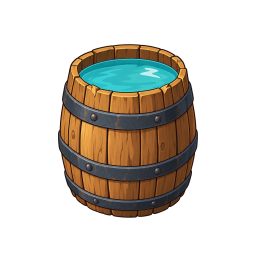
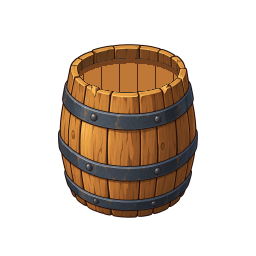
Close the water barrel with a wooden lid
The barrel's open top was bright cyan water that read as a water hazard on the quarry's pale ground. scripts/art/barrel-lid.ts recolours the water to the barrel's own stave tones with plank seams, and its test holds the shipped art free of water and idempotent under the tool.

Changed region(s): [[0.3125, 0.2188, 0.7188, 0.375]]

diff --git a/scripts/art/barrel-lid.ts b/scripts/art/barrel-lid.ts
@@ -1,0 +1,96 @@
+/**
+ * Close the water barrel's top with a wooden lid.
+ *
+ *   node --import tsx scripts/art/barrel-lid.ts
+ *
+ * `barrel.png` came out of generation as an open barrel brim-full of bright
+ * cyan water. On the quarry's pale ground that disc read as a water hazard on
+ * the board, the one thing a barrel is not until it breaks — and the bible
+ * keeps the pale cyan `#7ec8e3` family off anything that is not a live water
+ * surface. The lid is the barrel's own wood: every tone below is a stave
+ * colour already in the art, so nothing new enters the palette. Two flat
+ * tones, the shadow tone along the back of the brim where the staves shade it,
+ * and plank seams in the staves' own dark joint.
+ *
+ * It rewrites only the water pixels, so it is idempotent: run on the shipped
+ * lidded barrel it changes nothing, which is what its test holds.
+ */
+import { readPng, writePng } from './lib/image';
+import type { Image } from './lib/image';
+
+export const BARREL_PATH = 'public/art/props/barrel.png';
+
+/** Stave tones sampled from the barrel's own sides. */
+export const LID_TONES = {
+  base: [191, 119, 52],
+  shadow: [115, 64, 28],
+  seam: [76, 40, 19],
+} as const;
+
+/** Plank seams run front to back across the lid, this far apart in frame pixels. */
+const PLANK_PX = 18;
+/** How deep the brim's shade reaches onto the back of the lid. */
+const SHADE_PX = 5;
+
+/** The water: clearly blue-green over red, which no wood, iron or ink tone is. */
+export function isWater(r: number, g: number, b: number): boolean {
+  return b > r + 25 && g > r + 15;
+}
+
+export function closeLid(source: Image): Image {
+  const { width, height } = source;
+  const image: Image = { width, height, data: Uint8Array.from(source.data) };
+  const water = (x: number, y: number): boolean => {
+    const i = (y * width + x) * 4;
+    const d = source.data;
+    return (d[i + 3] ?? 0) > 0 && isWater(d[i] ?? 0, d[i + 1] ?? 0, d[i + 2] ?? 0);
+  };
+  let left = width,
+    right = -1;
+  for (let y = 0; y < height; y++)
+    for (let x = 0; x < width; x++)
+      if (water(x, y)) {
+        left = Math.min(left, x);
+        right = Math.max(right, x);
+      }
+  if (right < 0) return image;
+  const centre = (left + right) / 2;
+  const cool = (x: number, y: number): boolean => {
+    const i = (y * width + x) * 4;
+    const d = source.data;
+    return (d[i + 3] ?? 0) > 0 && (d[i + 2] ?? 0) > (d[i] ?? 0) + 4;
+  };
+  for (let y = 0; y < height; y++)
+    for (let x = 0; x < width; x++) {
+      if (!water(x, y)) {
+        // The water's own dark slate fringe inside the brim, warmed to the
+        // wood's joint so the lid does not keep a cold ring.
+        const touches = [
+          [1, 0],
+          [-1, 0],
+          [0, 1],
+          [0, -1],
+        ].some(([dx = 0, dy = 0]) => water(x + dx, y + dy));
+        if (touches && cool(x, y)) {
+          const i = (y * width + x) * 4;
+          [image.data[i], image.data[i + 1], image.data[i + 2]] = LID_TONES.seam;
+        }
+        continue;
+      }
+      // The first water pixels down each column sit under the back of the brim.
+      let above = 0;
+      while (above < SHADE_PX && y - above - 1 >= 0 && water(x, y - above - 1)) above++;
+      const seam = Math.abs(Math.round(x - centre)) % PLANK_PX === PLANK_PX / 2;
+      const tone = above < SHADE_PX ? LID_TONES.shadow : seam ? LID_TONES.seam : LID_TONES.base;
+      const i = (y * width + x) * 4;
+      image.data[i] = tone[0];
+      image.data[i + 1] = tone[1];
+      image.data[i + 2] = tone[2];
+    }
+  return image;
+}
+
+if (process.argv[1]?.endsWith('barrel-lid.ts')) {
+  writePng(BARREL_PATH, closeLid(readPng(BARREL_PATH)));
+  console.log(`closed the lid on ${BARREL_PATH}`);
+}

diff --git a/scripts/art/barrel-lid.test.ts b/scripts/art/barrel-lid.test.ts
@@ -1,0 +1,18 @@
+import { expect, it } from 'vitest';
+import { readPng } from './lib/image';
+import { BARREL_PATH, closeLid, isWater } from './barrel-lid';
+
+const barrel = readPng(BARREL_PATH);
+
+it('ships the barrel lidded in its own wood, with no water on top', () => {
+  let water = 0;
+  for (let i = 0; i < barrel.data.length; i += 4)
+    if (
+      (barrel.data[i + 3] ?? 0) > 0 &&
+      isWater(barrel.data[i] ?? 0, barrel.data[i + 1] ?? 0, barrel.data[i + 2] ?? 0)
+    )
+      water++;
+  expect(water).toBe(0);
+  // The shipped art is the tool's output: running it again changes nothing.
+  expect(Buffer.from(closeLid(barrel).data).equals(Buffer.from(barrel.data))).toBe(true);
+});

diff --git a/CHANGELOG.md b/CHANGELOG.md
@@ -2,6 +2,10 @@
 
 ## 0.2.11 — release candidate
 
+- Close the water barrel. Its open top was a disc of bright cyan that read as a
+  water hazard on the quarry's pale ground; `scripts/art/barrel-lid.ts` lids it
+  in the barrel's own stave tones with plank seams. `barrel.png`
+  46,384 → 42,187 B.
 - Paint the quarry floor's oil pools and mud patch on their own ground. The
   ground generator left every **dynamic** cell transparent, so the Driller
   floor's four spills and one mud patch were procedural slate standing beside
